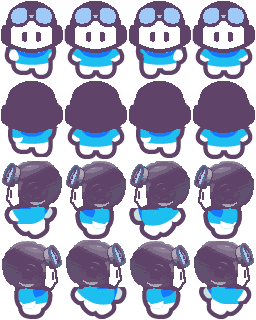
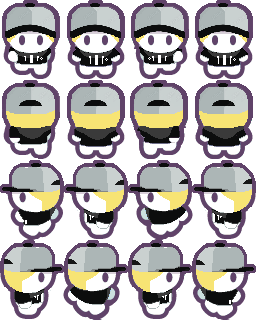
Update player sprite

diff --git a/src/main.ts b/src/main.ts
@@ -7,14 +7,25 @@ import { Game, Types } from 'phaser';
 
 const config: Types.Core.GameConfig = {
     type: Phaser.AUTO,
-    width: 800, // Set the desired width
-    height: 600, // Set the desired height
-    parent: 'game-container',
-    backgroundColor: '#028af8',
+    width: 768,
+    height: 1024,
+    backgroundColor: "#2d7c45",
+    min: {
+        width: 480,
+        height: 720,
+    },
+    max: {
+        width: 1024,
+        height: 1280,
+    },
     scale: {
         mode: Phaser.Scale.FIT,
         autoCenter: Phaser.Scale.CENTER_BOTH
     },
+    dom: {
+        createContainer: true
+    },
+    parent: 'game-container',
     physics: {
         default: 'arcade',
         arcade: {

diff --git a/src/helpers/Player.ts b/src/helpers/Player.ts
@@ -21,7 +21,7 @@ export class Player extends Phaser.Physics.Arcade.Sprite {
         scene.anims.create({
             key: 'walk_up',
             frames: scene.anims.generateFrameNumbers('player', { start: 4, end: 7 }),
-            frameRate: 10,
+            frameRate: 5,
             repeat: -1
         });
         scene.anims.create({
@@ -33,7 +33,7 @@ export class Player extends Phaser.Physics.Arcade.Sprite {
         scene.anims.create({
             key: 'walk_right',
             frames: scene.anims.generateFrameNumbers('player', { start: 12, end: 15 }),
-            frameRate: 10,
+            frameRate: 5,
             repeat: -1
         });
     }

diff --git a/README.md b/README.md
@@ -18,3 +18,7 @@ Ready to get started?
 |---------|-------------|
 | `npm install` | Install project dependencies |
 | `npm run dev` | Launch a development web server |
+
+# References
+
+- Graphics based on this link [this vector RPG demo](https://rhosgfx.itch.io/vector-rpg-overworld-demo)
